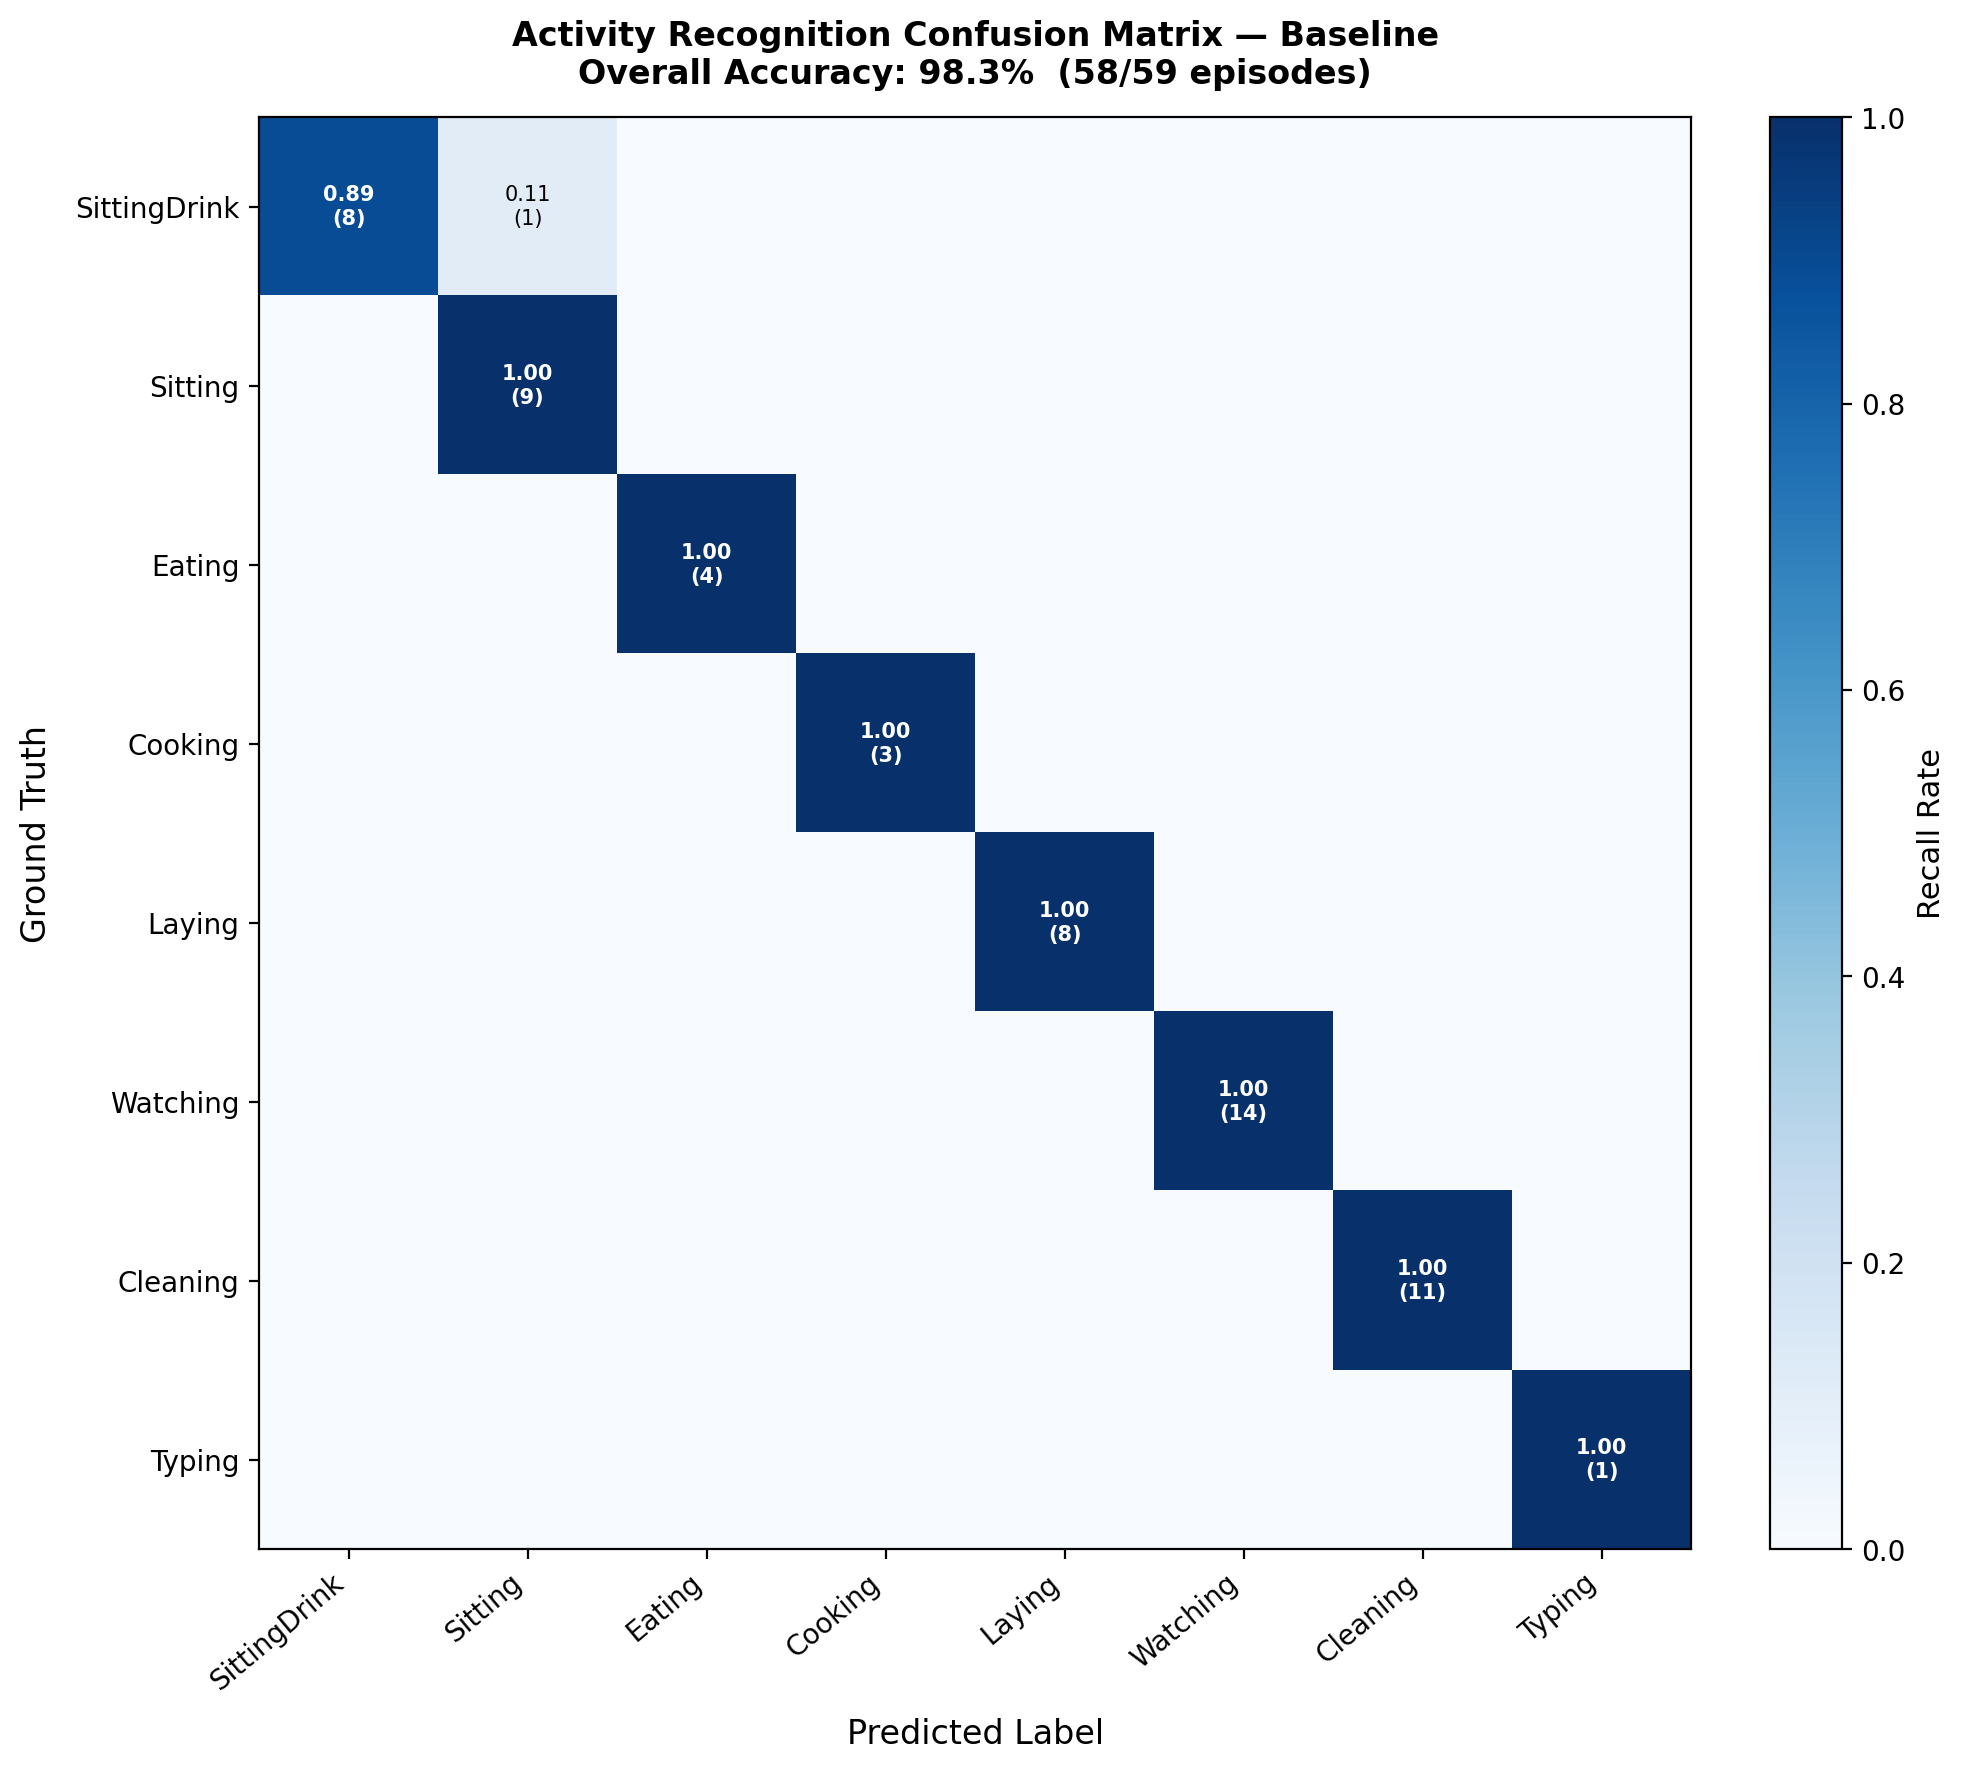
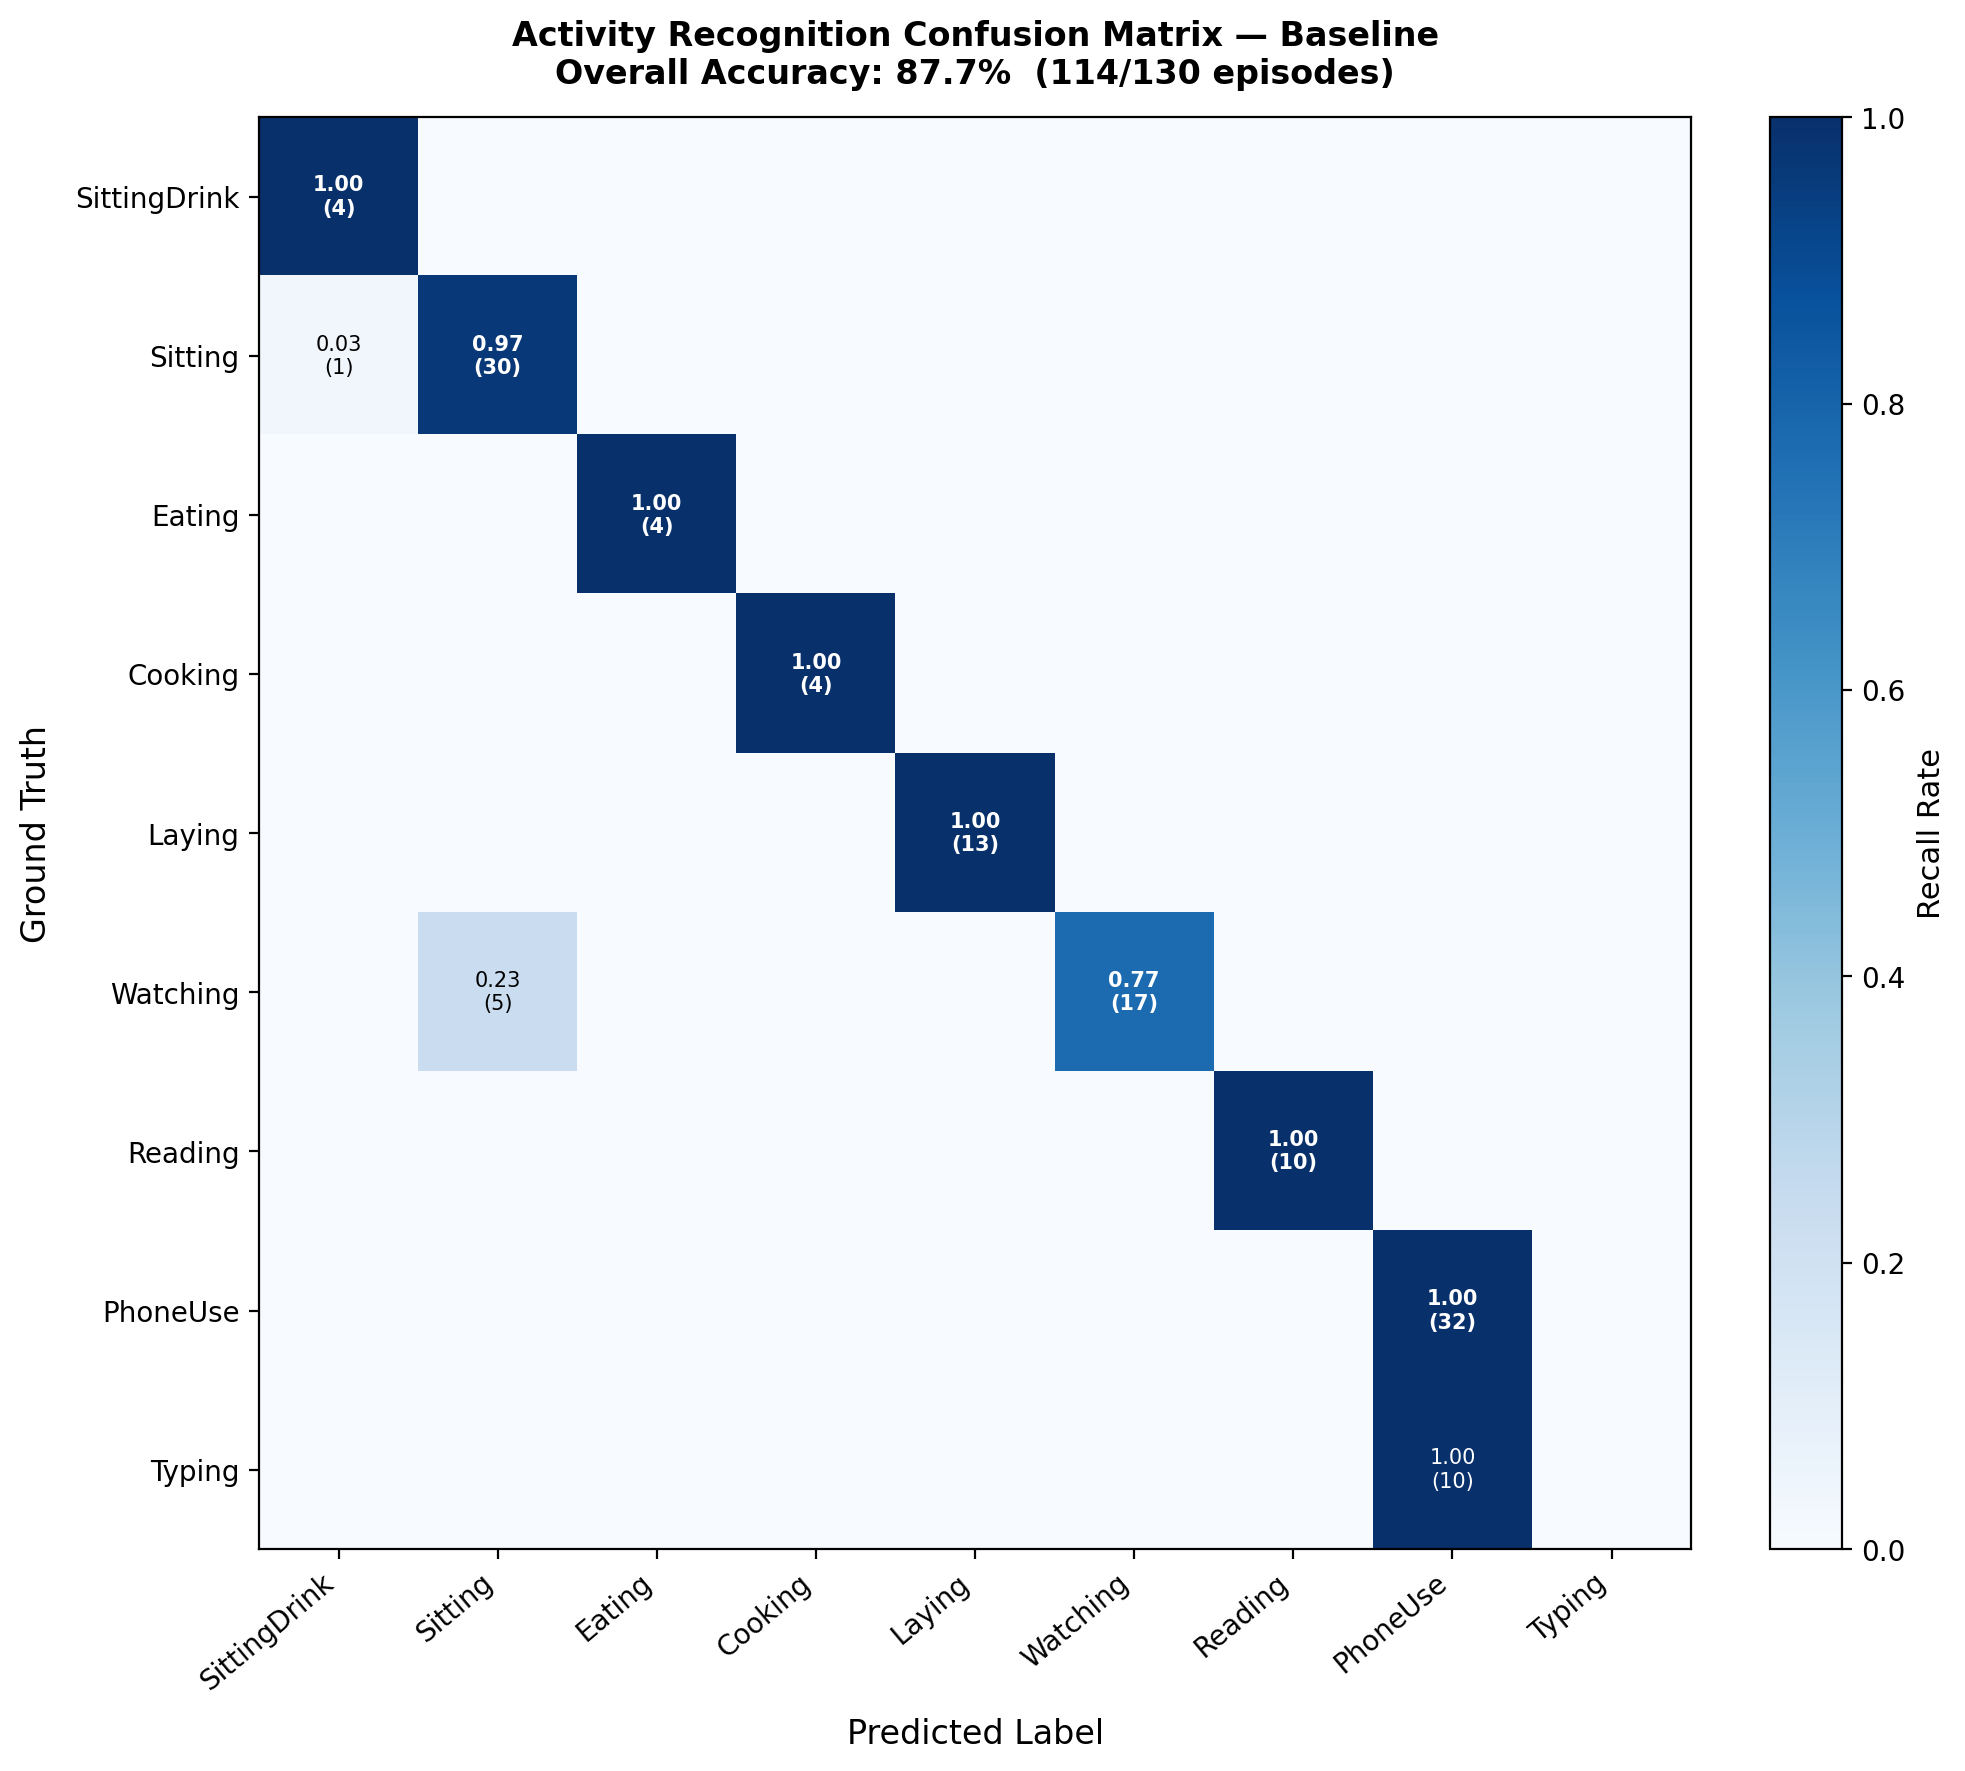
upgrade llm reasoninf for baseline

diff --git a/modules/perception/perception_engine.py b/modules/perception/perception_engine.py
@@ -623,6 +623,7 @@ class PerceptionEngine:
         pitch    = float(payload.get("head_pitch",   -999))
         h2h      = float(payload.get("hand_to_head",   -1))
         arm      = float(payload.get("arm_elevation",  -1))
+        hip      = float(payload.get("hip_height",     -1))
         wrist_z  = float(payload.get("wrist_z",      -999))
         l_wrist_z= float(payload.get("left_wrist_z", -999))
         wrist_h  = float(payload.get("wrist_height", -999))
@@ -634,6 +635,7 @@ class PerceptionEngine:
         pitch_valid = pitch > -999
         h2h_valid   = h2h >= 0
         arm_valid   = arm >= 0
+        hip_valid   = hip > 0
         body_position = None
 
         laying_cfg   = _BEHAVIOUR_CFG.get("Laying", {})
@@ -642,6 +644,10 @@ class PerceptionEngine:
 
         if pitch_valid and abs(pitch - laying_ideal) <= laying_tol:
             body_position = "lying"
+        elif hip_valid and hip > 0.50:
+            body_position = "standing"
+        elif hip_valid and hip < 0.45:
+            body_position = "sitting"
         elif pitch_valid and -40 < pitch < 40:
             body_position = "sitting"
         elif arm_valid and arm > 165: